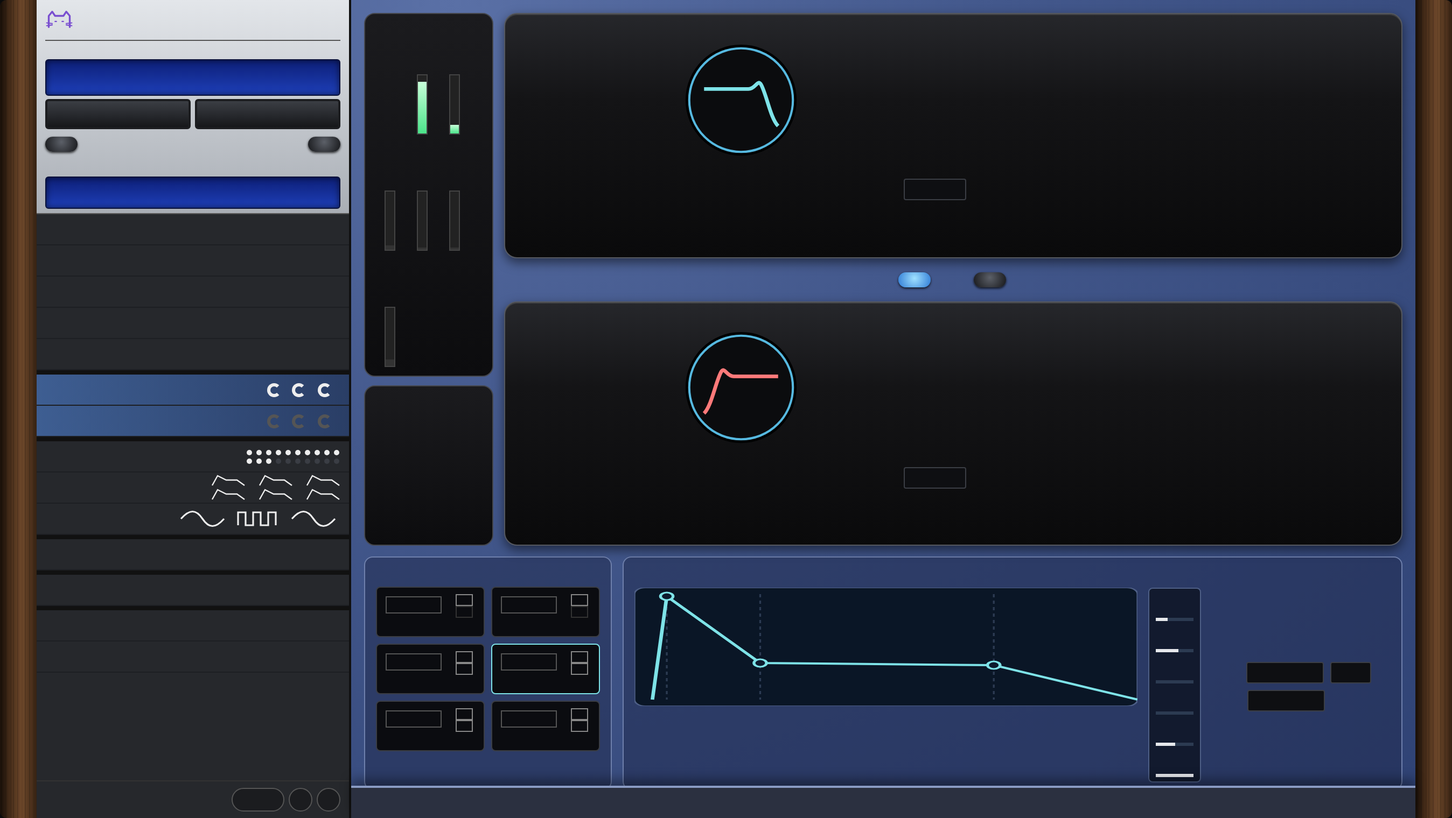
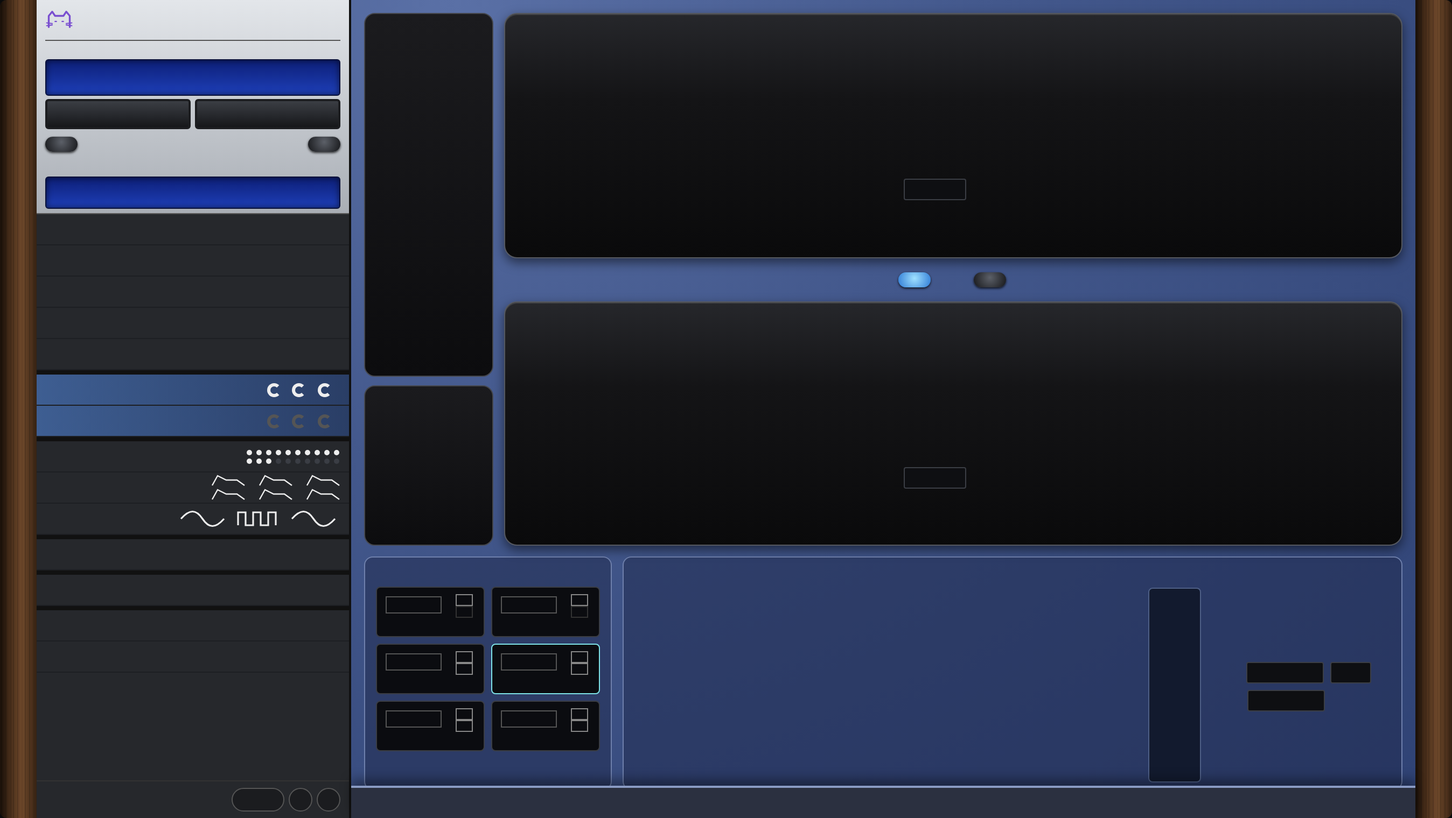
Filter page live: filter response windows, mixer faders, filter envelope graph and bars; filter menu type text follows
Claude-Session: https://claude.ai/code/session_019TnJtziw9TzxJpcD67FRDR

diff --git a/docs/mockups/UNova_Filter.dc.html b/docs/mockups/UNova_Filter.dc.html
@@ -93,6 +93,71 @@ a{color:#E6E8EC}a:hover{color:#FFFFFF}
 <div style="position: absolute; left: 7px; top: 7px; width: 28px; height: 28px; transform: rotate(0deg)"><div style="position: absolute; left: 50%; top: 3.9px; width: 2px; height: 7.3px; margin-left: -1px; border-radius: 1px; background: #1C1E22; box-shadow: 0 0 1px rgba(255,255,255,0.6)"></div></div></div><span style="font-size: 10px; color: #A9AFBA; text-align: center; line-height: 1.1">Level Track</span></div></div><div style="display: flex; gap: 6px; align-items: center; font-size: 10px; color: #A9AFBA"><span>Mono</span><span style="display: inline-flex; align-items: center; justify-content: center; width: 70px; height: 18px; border-radius: 2px; background: #0E0F12; border: 1px solid #3B3E45; color: #DCE3F0; font-size: 10px">Legato</span><span style="display: inline-flex; align-items: center; justify-content: center; width: 36px; height: 18px; border-radius: 2px; background: #0E0F12; border: 1px solid #3B3E45; color: #DCE3F0; font-size: 10px">C 3</span></div><div style="display: flex; gap: 6px; align-items: center; font-size: 10px; color: #A9AFBA"><span>Touch</span><span style="display: inline-flex; align-items: center; justify-content: center; width: 70px; height: 18px; border-radius: 2px; background: #0E0F12; border: 1px solid #3B3E45; color: #DCE3F0; font-size: 10px">Off</span></div></div></div></section></div><span style="font-size: 10px; color: #CBD3E6">14 types: LP6NoRes · LP12 · LP18 · LP24 · BP6/6 · BP12/12 · BP6/12 · BP12/6 · BP6/18 · BP18/6 · HP6NoRes · HP12 · HP18 · HP24</span><div style="position: absolute; bottom: 0; left: 0; right: 0; height: 28px; background: #2B3040; border-top: 2px solid #8A9BC4; box-shadow: 0 -6px 10px rgba(0,0,0,.35); display: flex; align-items: center; justify-content: center; font-size: 15px; font-weight: 600; letter-spacing: .06em; color: #F2F4F8">UltraNova Controller</div></main>
 </div><div aria-hidden="true" class="wood-cheek" style="width: 34px; flex: none; align-self: stretch; background: linear-gradient(90deg,rgb(29,18,10) 0px 1px,rgb(27,17,9) 1px 2px,rgb(36,22,12) 2px 3px,rgb(40,25,14) 3px 4px,rgb(44,28,15) 4px 5px,rgb(43,27,16) 5px 6px,rgb(57,36,20) 6px 7px,rgb(63,39,22) 7px 8px,rgb(68,43,24) 8px 9px,rgb(66,42,24) 9px 10px,rgb(70,44,25) 10px 11px,rgb(81,52,30) 11px 12px,rgb(70,45,26) 12px 13px,rgb(86,56,32) 13px 14px,rgb(90,58,33) 14px 15px,rgb(93,61,34) 15px 16px,rgb(83,53,32) 16px 17px,rgb(102,65,39) 17px 18px,rgb(103,68,40) 18px 19px,rgb(107,70,41) 19px 20px,rgb(99,65,38) 20px 21px,rgb(106,70,41) 21px 22px,rgb(103,68,40) 22px 23px,rgb(82,54,31) 23px 24px,rgb(93,61,35) 24px 25px,rgb(89,58,33) 25px 26px,rgb(86,55,32) 26px 27px,rgb(69,46,26) 27px 28px,rgb(79,51,29) 28px 29px,rgb(75,47,28) 29px 30px,rgb(70,45,25) 30px 31px,rgb(60,38,21) 31px 32px,rgb(61,38,22) 32px 33px,rgb(55,36,20) 33px 34px,rgb(42,27,15) 34px 35px); box-shadow: none; border-radius: 0 6px 6px 0"></div></div>
 </x-dc>
+<script>
+(function(){
+// ---- live mixer faders, envelope bars and the amp envelope graph (same behaviour as the plugin window) ----
+function setupMix(){
+  var fs=[].slice.call(document.querySelectorAll('div[style*="width: 8px"][style*="height: 54px"]'));
+  var bars=[].slice.call(document.querySelectorAll('div[style*="height: 3px"][style*="background: #2C3B52"]'));
+  var navRow=[].slice.call(document.querySelectorAll('nav a')).filter(function(a){var f=a.querySelector('span');return f&&f.textContent.trim()==='Mixer';})[0];
+  var nb=navRow?[].slice.call(navRow.querySelectorAll('span[style*="width: 4px"]')):[];
+  var env=document.querySelector('svg[aria-label="Envelope shape"]');
+  function num(x,def){x=parseFloat(x);return isNaN(x)?def:x;}
+  var fv=fs.map(function(f){var h=num(f.firstElementChild&&f.firstElementChild.style.height,2);return h<=4?0:Math.round(Math.min(1,h/52)*127);});
+  var bv=bars.map(function(b){return Math.round(num(b.firstElementChild.style.width,0)/100*127);});
+  var E={a:10,d:70,s:45,t:95,r:50};
+  function drawF(i){var f=fs[i],inner=f.firstElementChild,v=fv[i];inner.style.height=Math.max(2,v/127*52)+'px';inner.style.background=v>0?'linear-gradient(0deg,#4BE38A,#C8FFD9)':'#333';
+    if(nb[i]){nb[i].style.height=(3+v/127*11)+'px';nb[i].style.background=v>0?'#FFFFFF':'#555';}}
+  fs.forEach(function(f,i){var col=f.parentElement;col.style.cursor='ns-resize';col.style.touchAction='none';col.title=['Osc 1','Osc 2','Osc 3','Ring mod 1*3','Ring mod 2*3','Noise'][i]+' level: drag up or down, wheel, double click sets 0';
+    function at(ev){var r=f.getBoundingClientRect();fv[i]=Math.max(0,Math.min(127,Math.round(127*(r.bottom-ev.clientY)/r.height)));drawF(i);}
+    col.addEventListener('pointerdown',function(e){e.preventDefault();col.setPointerCapture(e.pointerId);at(e);function mv(ev){at(ev);}function up(){col.removeEventListener('pointermove',mv);col.removeEventListener('pointerup',up);}col.addEventListener('pointermove',mv);col.addEventListener('pointerup',up);});
+    col.addEventListener('wheel',function(e){e.preventDefault();fv[i]=Math.max(0,Math.min(127,fv[i]+(e.deltaY<0?2:-2)));drawF(i);},{passive:false});
+    col.addEventListener('dblclick',function(){fv[i]=0;drawF(i);});drawF(i);});
+  var bn=['Attack slope','Decay slope','Attack track','Decay track','Sustain rate','Sustain time'];
+  function drawB(i){bars[i].firstElementChild.style.width=(bv[i]/127*100)+'%';if(i===5)E.t=bv[5];}
+  bars.forEach(function(b,i){var box=b.parentElement;box.style.cursor='ew-resize';box.style.touchAction='none';box.title='Filter envelope '+bn[i].toLowerCase()+': drag left or right, wheel';
+    function at(ev){var r=b.getBoundingClientRect();bv[i]=Math.max(0,Math.min(127,Math.round(127*(ev.clientX-r.left)/r.width)));drawB(i);if(i===5)drawE();}
+    box.addEventListener('pointerdown',function(e){e.preventDefault();box.setPointerCapture(e.pointerId);at(e);function mv(ev){at(ev);}function up(){box.removeEventListener('pointermove',mv);box.removeEventListener('pointerup',up);}box.addEventListener('pointermove',mv);box.addEventListener('pointerup',up);});
+    box.addEventListener('wheel',function(e){e.preventDefault();bv[i]=Math.max(0,Math.min(127,bv[i]+(e.deltaY<0?2:-2)));drawB(i);if(i===5)drawE();},{passive:false});});
+  // envelope graph: viewBox 300 x 120, same maths as the plugin (illustrative time scale)
+  function pts(){var wa=24+E.a/127*70,wd=24+E.d/127*70,ws=24+E.t/127*50,wr=24+E.r/127*70,k=Math.min(1,270/(wa+wd+ws+wr)),L=10,T=10,B=104,yS=B-E.s/127*(B-T);
+    var x1=L+wa*k,x2=x1+wd*k,x3=x2+ws*k,x4=x3+wr*k;return {k:k,p:[[L,B],[x1,T],[x2,yS],[x3,yS],[x4,B]]};}
+  function drawE(){if(!env)return;var q=pts(),p=q.p,path=env.querySelector('path'),cs=env.querySelectorAll('circle'),ls=env.querySelectorAll('line');
+    path.setAttribute('d','M'+p.map(function(a){return a[0].toFixed(1)+','+a[1].toFixed(1);}).join(' L'));
+    for(var i=0;i<cs.length&&i<4;i++){cs[i].setAttribute('cx',p[i+1][0]);cs[i].setAttribute('cy',p[i+1][1]);cs[i].style.cursor='grab';}
+    for(var j=0;j<ls.length&&j<3;j++){ls[j].setAttribute('x1',p[j+1][0]);ls[j].setAttribute('x2',p[j+1][0]);}}
+  if(env){var drag=null;env.style.touchAction='none';
+    env.addEventListener('pointerdown',function(e){var r=env.getBoundingClientRect(),sx=300/r.width,sy=120/r.height,x=(e.clientX-r.left)*sx,y=(e.clientY-r.top)*sy,p=pts().p,h=0;
+      for(var i=4;i>=1;i--){if(Math.hypot(p[i][0]-x,p[i][1]-y)<12){h=i;break;}}if(!h)return;e.preventDefault();env.setPointerCapture(e.pointerId);
+      drag={h:h,x:e.clientX,y:e.clientY,v:{a:E.a,d:E.d,s:E.s,t:E.t,r:E.r},k:pts().k,sx:sx,sy:sy};});
+    env.addEventListener('pointermove',function(e){if(!drag)return;var dx=(e.clientX-drag.x)*drag.sx,dy=(e.clientY-drag.y)*drag.sy,v=drag.v,c=function(n){return Math.max(0,Math.min(127,Math.round(n)));};
+      if(drag.h===1)E.a=c(v.a+dx*127/(70*drag.k));else if(drag.h===2){E.d=c(v.d+dx*127/(70*drag.k));E.s=c(v.s-dy*127/94);}
+      else if(drag.h===3){E.t=c(v.t+dx*127/(50*drag.k));bv[5]=E.t;drawB(5);}else E.r=c(v.r+dx*127/(70*drag.k));drawE();});
+    env.addEventListener('pointerup',function(){drag=null;});env.title='Filter envelope: drag the dots (attack, decay and sustain level, sustain time, release)';drawE();}
+}
+setTimeout(setupMix,900);
+
+// ---- live filter windows: the curve follows type, frequency and resonance (knob angles) ----
+var FT={'LP6NoRes':[0,1,0,1],'LP12':[0,2,0,0],'LP18':[0,3,0,0],'LP24':[0,4,0,0],'BP6/6':[1,1,1,0],'BP12/12':[1,2,2,0],'BP6/12':[1,1,2,0],'BP12/6':[1,2,1,0],'BP6/18':[1,1,3,0],'BP18/6':[1,3,1,0],'HP6NoRes':[2,1,0,1],'HP12':[2,2,0,0],'HP18':[2,3,0,0],'HP24':[2,4,0,0]};
+function fdb(ft,fv,rv,f){var fc=20*Math.pow(1000,fv/127);function lp(x,n){return 1/Math.sqrt(1+Math.pow(x,2*n));}
+  var m=ft[0]===0?lp(f/fc,ft[1]):ft[0]===2?lp(fc/f,ft[1]):lp(f/(fc*1.6),ft[2])*lp((fc/1.6)/f,ft[1]);var db=20*Math.log10(Math.max(m,1e-4));
+  if(!ft[3]){var l=Math.log(f/fc);db+=rv/127*18*Math.exp(-l*l/(2*.14*.14));}return db;}
+function setupFilters(){
+  [].slice.call(document.querySelectorAll('svg[aria-label^="Filter "]')).forEach(function(sv){
+    var name=(sv.getAttribute('aria-label').match(/Filter \d (\S+)/)||[])[1],ft=FT[name];if(!ft)return;
+    var panel=sv.parentElement.parentElement,knobs=[].slice.call(panel.querySelectorAll('[data-knob]'));var fk=knobs[2],rk=knobs[3];if(!fk||!rk)return;
+    function ang(kb){var r=kb.querySelector('div[style*="rotate("]');var m=r&&/rotate\((-?[\d.]+)deg\)/.exec(r.getAttribute('style'));return m?parseFloat(m[1]):0;}
+    var path=sv.querySelector('path[stroke]'),first=true;
+    function draw(){var fv=(ang(fk)+135)/270*127,rv=(ang(rk)+135)/270*127,d='';
+      for(var i=0;i<=64;i++){var t=i/64,db=Math.max(-14,Math.min(14,fdb(ft,fv,rv,20*Math.pow(1000,t))));d+=(i?' L':'M')+(12+t*40).toFixed(1)+','+(32-db*.68).toFixed(1);}
+      path.setAttribute('d',d);path.setAttribute('stroke-linejoin','round');}
+    [fk,rk].forEach(function(kb){var r=kb.querySelector('div[style*="rotate("]');if(r)new MutationObserver(draw).observe(r,{attributes:true,attributeFilter:['style']});});
+    sv.style.clipPath='none';draw();
+  });
+}
+setTimeout(setupFilters,900);
+})();
+</script>
 <script type="text/x-dc" data-dc-script data-props='{"$preview":{"width":1280,"height":760}}'>
 class Component extends DCLogic {
 renderVals() {

diff --git a/src/ui/UnovaUi.h b/src/ui/UnovaUi.h
@@ -75,6 +75,7 @@ inline juce::Font makeFont(int weight, bool vt, float px) { return juce::Font(ju
 inline float textWidth(const juce::Font& f, const juce::String& t) { juce::GlyphArrangement ga; ga.addLineOfText(f, t, 0, 0); return ga.getBoundingBox(0, -1, true).getWidth(); }
 
 struct TextRun { juce::String t; juce::Rectangle<float> r; juce::Font font; juce::Colour col; int rot = 0; };
+struct FilterDialSpec { juce::Rectangle<float> rect; juce::Colour ring, curve; };
 struct IconSpec { int n = 1; juce::Rectangle<float> rect; juce::Colour color; };
 struct DialSpec { juce::Rectangle<float> rect; juce::Colour color; };
 struct KnobSpec { juce::Rectangle<float> rect; float angle = 0; };
@@ -82,7 +83,7 @@ struct NavSpec { juce::String page; juce::Rectangle<float> rect; };
 struct ButtonSpec { juce::String text, label; juce::Rectangle<float> rect; };
 struct PageData
 {
-    juce::Image art; std::vector<KnobSpec> knobs; std::vector<NavSpec> nav; std::vector<ButtonSpec> buttons; std::vector<TextRun> runs; std::vector<DialSpec> dials; std::vector<IconSpec> icons; std::vector<juce::Rectangle<float>> navBars, faders, bars; juce::Rectangle<float> env;
+    juce::Image art; std::vector<KnobSpec> knobs; std::vector<NavSpec> nav; std::vector<ButtonSpec> buttons; std::vector<TextRun> runs; std::vector<DialSpec> dials; std::vector<IconSpec> icons; std::vector<juce::Rectangle<float>> navBars, faders, bars; juce::Rectangle<float> env; std::vector<FilterDialSpec> filterDials;
     static std::unique_ptr<PageData> load(const juce::String& key)
     {
         auto pd = std::make_unique<PageData>(); auto png = resource(key + ".png"); auto js = resource(key + ".json");
@@ -105,6 +106,8 @@ struct PageData
         if (auto* is = v["navIcons"].getArray()) for (auto& d : *is) pd->icons.push_back({ (int) d["n"], rectOf(d), juce::Colour::fromString("ff" + d["color"].toString().fromFirstOccurrenceOf("#", false, false)) });
         auto list = [&](const char* k, std::vector<juce::Rectangle<float>>& out) { if (auto* a = v[k].getArray()) for (auto& r : *a) out.push_back(rectOf(r)); };
         list("navBars", pd->navBars); list("faders", pd->faders); list("bars", pd->bars); if (v["env"].isObject()) pd->env = rectOf(v["env"]);
+        auto col = [](const juce::String& c) { return juce::Colour::fromString("ff" + c.fromFirstOccurrenceOf("#", false, false)); };
+        if (auto* fs = v["filterDials"].getArray()) for (auto& d : *fs) pd->filterDials.push_back({ rectOf(d), col(d["ring"].toString()), col(d["color"].toString()) });
         return pd;
     }
 };
@@ -379,6 +382,54 @@ private:
     juce::RangedAudioParameter *A, *D, *S, *ST, *R; float last = -1, k0 = 1; int grab = 0; juce::Point<float> start; std::array<float, 5> v0{};
 };
 
+// Filter types in the order of the maker's list ("14 types"). Which controller value picks which type is not in the document: assumed value 0..13 in this order.
+struct FType { const char* name; int kind, a, b; bool noRes; };   // kind 0 low pass, 1 band pass (a high pass side, b low pass side), 2 high pass
+inline const FType& filterType(int i)
+{
+    static const FType t[14] = { { "LP6NoRes", 0, 1, 0, true }, { "LP12", 0, 2, 0, false }, { "LP18", 0, 3, 0, false }, { "LP24", 0, 4, 0, false }, { "BP6/6", 1, 1, 1, false }, { "BP12/12", 1, 2, 2, false }, { "BP6/12", 1, 1, 2, false },
+        { "BP12/6", 1, 2, 1, false }, { "BP6/18", 1, 1, 3, false }, { "BP18/6", 1, 3, 1, false }, { "HP6NoRes", 2, 1, 0, true }, { "HP12", 2, 2, 0, false }, { "HP18", 2, 3, 0, false }, { "HP24", 2, 4, 0, false } };
+    return t[juce::jlimit(0, 13, i)];
+}
+// Illustrative response: cutoff 20 Hz to 20 kHz over the controller range (assumed), resonance bump up to 18 dB. Returns dB at frequency f.
+inline float filterDb(const FType& ft, float freqV, float resV, float f)
+{
+    const float fc = 20.0f * std::pow(1000.0f, freqV / 127.0f); auto lp = [](float x, int n) { return 1.0f / std::sqrt(1.0f + std::pow(x, 2.0f * (float) n)); };
+    float m;
+    if (ft.kind == 0) m = lp(f / fc, ft.a); else if (ft.kind == 2) m = lp(fc / f, ft.a); else m = lp(f / (fc * 1.6f), ft.b) * lp((fc / 1.6f) / f, ft.a);
+    float db = 20.0f * std::log10(juce::jmax(m, 1.0e-4f));
+    if (!ft.noRes) { const float l = std::log(f / fc); db += resV / 127.0f * 18.0f * std::exp(-l * l / (2.0f * 0.14f * 0.14f)); }
+    return db;
+}
+// The round filter window: draws the response of the current type, frequency and resonance. Drag sideways for frequency, up or down for resonance.
+class FilterDial : public juce::Component, public juce::SettableTooltipClient
+{
+public:
+    FilterDial(juce::RangedAudioParameter* t, juce::RangedAudioParameter* f, juce::RangedAudioParameter* r, juce::Colour ringC, juce::Colour curveC, juce::Rectangle<float> box, const juce::String& name)
+        : T(t), F(f), R(r), ring(ringC), curve(curveC), title(name) { setBounds(box.toNearestInt()); setMouseCursor(juce::MouseCursor::UpDownLeftRightResizeCursor); tip(); }
+    void refresh() { const float sg = pget(T) + pget(F) * 31 + pget(R) * 1009; if (sg != last) { repaint(); tip(); } }
+    void paint(juce::Graphics& g) override
+    {
+        last = pget(T) + pget(F) * 31 + pget(R) * 1009; const float u = (float) juce::jmin(getWidth(), getHeight()) / 64.0f; const juce::Point<float> c((float) getWidth() / 2, (float) getHeight() / 2);
+        g.setColour(juce::Colours::black); g.fillEllipse(c.x - 30 * u, c.y - 30 * u, 60 * u, 60 * u);
+        g.setColour(juce::Colour(0xff0B0C0E)); g.fillEllipse(c.x - 28 * u, c.y - 28 * u, 56 * u, 56 * u); g.setColour(ring); g.drawEllipse(c.x - 28 * u, c.y - 28 * u, 56 * u, 56 * u, 1.2f * u);
+        const auto& ft = filterType(juce::roundToInt(pget(T))); juce::Path p; const float x0 = c.x - 20 * u, w = 40 * u;
+        for (int i = 0; i <= 64; ++i)
+        {
+            const float t = (float) i / 64.0f, db = filterDb(ft, pget(F), pget(R), 20.0f * std::pow(1000.0f, t)), y = c.y + (14.0f - juce::jlimit(-14.0f, 14.0f, db) / 50.0f * 34.0f - 8.0f) * u - 6 * u;
+            if (i) p.lineTo(x0 + t * w, y); else p.startNewSubPath(x0 + t * w, y);
+        }
+        g.saveState(); g.reduceClipRegion(juce::Rectangle<float>(c.x - 24 * u, c.y - 24 * u, 48 * u, 38 * u).toNearestInt()); g.setColour(curve); g.strokePath(p, juce::PathStrokeType(2.0f * u, juce::PathStrokeType::curved, juce::PathStrokeType::rounded)); g.restoreState();
+        g.setColour(juce::Colours::white); g.setFont(makeFont(400, false, 7.0f * u)); g.drawText(ft.name, juce::Rectangle<float>(c.x - 26 * u, c.y + 12 * u, 52 * u, 10 * u), juce::Justification::centred, false);
+    }
+    void mouseDown(const juce::MouseEvent&) override { f0 = pget(F); r0 = pget(R); for (auto* q : { F, R }) if (q) q->beginChangeGesture(); }
+    void mouseDrag(const juce::MouseEvent& e) override { pset(F, f0 + (float) e.getOffsetFromDragStart().x * 0.9f); pset(R, r0 - (float) e.getOffsetFromDragStart().y * 0.9f); }
+    void mouseUp(const juce::MouseEvent&) override { for (auto* q : { F, R }) if (q) q->endChangeGesture(); }
+    void mouseWheelMove(const juce::MouseEvent&, const juce::MouseWheelDetails& w) override { if (F) { F->beginChangeGesture(); pset(F, pget(F) + (w.deltaY > 0 ? 2.0f : -2.0f)); F->endChangeGesture(); } }
+private:
+    void tip() { setTooltip(title + ": " + filterType(juce::roundToInt(pget(T))).name + ", frequency " + juce::String(juce::roundToInt(pget(F))) + ", resonance " + juce::String(juce::roundToInt(pget(R))) + " (drag sideways = frequency, up or down = resonance; type order and Hz scale assumed)"); }
+    juce::RangedAudioParameter *T, *F, *R; juce::Colour ring, curve; juce::String title; float last = -1, f0 = 0, r0 = 0;
+};
+
 // A knob wired to one parameter (or disabled at the mockup's resting angle when there is none).
 class Knob : public juce::Slider
 {
@@ -408,11 +459,11 @@ class Content : public juce::Component, private juce::Timer
 public:
     std::function<void()> onZoom, onInfo, onAll, onReset100;
     Content(juce::AudioProcessor& p) : proc(p) { setSize(kW, kH); setOpaque(true); startTimerHz(20); }
-    ~Content() override { stopTimer(); knobs.clear(); fields.clear(); faders.clear(); bars.clear(); envGraph.reset(); }
+    ~Content() override { stopTimer(); knobs.clear(); fields.clear(); faders.clear(); bars.clear(); envGraph.reset(); filterDials.clear(); }
 
     void showPage(const juce::String& key)
     {
-        knobs.clear(); dials.clear(); fields.clear(); faders.clear(); bars.clear(); envGraph.reset(); live.clear(); skip.clear(); shown.clear(); picker.reset(); page = key; data = PageData::load(key); const auto& ids = knobMap().at(key);
+        knobs.clear(); dials.clear(); fields.clear(); faders.clear(); bars.clear(); envGraph.reset(); filterDials.clear(); live.clear(); skip.clear(); shown.clear(); picker.reset(); page = key; data = PageData::load(key); const auto& ids = knobMap().at(key);
         for (size_t i = 0; i < data->knobs.size(); ++i)
         {
             juce::RangedAudioParameter* prm = nullptr;
@@ -435,24 +486,41 @@ public:
     {
         if (!data) return;
         // the menu rows "Oscillator 1..3" show semitone and cents of that oscillator, on every page
-        static const char* semi[3] = { "cc_26", "cc_37", "cc_48" }; static const char* cents[3] = { "cc_27", "cc_39", "cc_49" }; int ns = 0, nc = 0;
+        static const char* semi[3] = { "cc_26", "cc_37", "cc_48" }; static const char* cents[3] = { "cc_27", "cc_39", "cc_49" }; int ns = 0, nc = 0, nf = 0;
         for (size_t i = 0; i < data->runs.size(); ++i)
         {
             const auto& r = data->runs[i]; if (r.r.getX() > 330) continue;
             if (r.t.endsWith(" Semi") && ns < 3) { if (auto* p = find(semi[ns++])) live[(int) i] = [p] { return Field::text(p, true) + " Semi"; }; }
+            else if (r.t.length() >= 4 && (r.t.startsWith("LP") || r.t.startsWith("BP") || r.t.startsWith("HP")) && r.t.containsAnyOf("0123456789") && nf < 2) { if (auto* p = find(nf++ == 0 ? "cc_68" : "cc_82")) live[(int) i] = [p] { return juce::String(filterType(juce::roundToInt(pget(p))).name); }; }
             else if (r.t.endsWith(" Detune") && nc < 3) { if (auto* p = find(cents[nc++])) live[(int) i] = [p] { return Field::text(p, true) + " Detune"; }; }
         }
+        if (key == "filter") { bindMixerAndEnvelope(false); return; }
         if (key != "osc") return;
         auto box = [this](int run, const char* id, bool centred) {
             auto* p = find(id); if (!p) return; const auto& r = data->runs[(size_t) run]; skip.insert(run);
             auto f = std::make_unique<Field>(p, centred, r, juce::Rectangle<float>(40, 20).withCentre(r.r.getCentre())); addAndMakeVisible(*f); fields.push_back(std::move(f)); };
         box(78, "cc_26", true); box(79, "cc_28", true); box(104, "cc_37", true); box(105, "cc_40", true); box(130, "cc_48", true); box(131, "cc_50", true);
         box(171, "cc_14", false);
+        bindMixerAndEnvelope(true);
+    }
+    // Mixer faders, the six envelope bars and the envelope graph (same layout on the Oscillators page for the amp envelope and on the Filter page for the filter envelope).
+    void bindMixerAndEnvelope(bool amp)
+    {
         static const char* mix[6] = { "cc_51", "cc_52", "cc_53", "cc_54", "cc_55", "cc_56" }; static const char* mixName[6] = { "Osc 1 level", "Osc 2 level", "Osc 3 level", "Ring mod 1*3 level", "Ring mod 2*3 level", "Noise level" };
         for (size_t i = 0; i < data->faders.size() && i < 6; ++i) { auto f = std::make_unique<Fader>(find(mix[i]), mixName[i], data->faders[i]); addAndMakeVisible(*f); faders.push_back(std::move(f)); }
-        static const char* bid[6] = { "cc_115", "cc_116", "cc_112", "cc_113", "cc_109", "cc_110" }; static const char* bname[6] = { "Amp env attack slope", "Amp env decay slope", "Amp env attack track", "Amp env decay track", "Amp env sustain rate", "Amp env sustain time" };
-        for (size_t i = 0; i < data->bars.size() && i < 6; ++i) { auto b = std::make_unique<Bar>(find(bid[i]), bname[i], data->bars[i]); addAndMakeVisible(*b); bars.push_back(std::move(b)); }
-        if (!data->env.isEmpty()) { envGraph = std::make_unique<EnvGraph>(find("cc_73"), find("cc_75"), find("cc_70"), find("cc_110"), find("cc_72"), data->env); addAndMakeVisible(*envGraph); }
+        static const char* ampBar[6] = { "cc_115", "cc_116", "cc_112", "cc_113", "cc_109", "cc_110" }; static const char* filBar[6] = { "nrpn_0_11", "nrpn_0_12", "nrpn_0_8", "nrpn_0_9", "nrpn_0_5", "nrpn_0_6" };
+        static const char* bname[6] = { "attack slope", "decay slope", "attack track", "decay track", "sustain rate", "sustain time" };
+        for (size_t i = 0; i < data->bars.size() && i < 6; ++i) { auto b = std::make_unique<Bar>(find(amp ? ampBar[i] : filBar[i]), juce::String(amp ? "Amp env " : "Filter env ") + bname[i], data->bars[i]); addAndMakeVisible(*b); bars.push_back(std::move(b)); }
+        if (!data->env.isEmpty())
+        {
+            envGraph = amp ? std::make_unique<EnvGraph>(find("cc_73"), find("cc_75"), find("cc_70"), find("cc_110"), find("cc_72"), data->env) : std::make_unique<EnvGraph>(find("nrpn_0_1"), find("nrpn_0_2"), find("nrpn_0_3"), find("nrpn_0_6"), find("nrpn_0_4"), data->env);
+            addAndMakeVisible(*envGraph);
+        }
+        if (!amp)
+        {
+            static const char* t[2] = { "cc_68", "cc_82" }; static const char* f[2] = { "cc_74", "cc_83" }; static const char* r[2] = { "cc_71", "cc_85" };
+            for (size_t i = 0; i < data->filterDials.size() && i < 2; ++i) { auto d = std::make_unique<FilterDial>(find(t[i]), find(f[i]), find(r[i]), data->filterDials[i].ring, data->filterDials[i].curve, data->filterDials[i].rect, "Filter " + juce::String((int) i + 1)); addAndMakeVisible(*d); filterDials.push_back(std::move(d)); }
+        }
     }
     // the little waveform in the menu rows follows the waveform and pulse width of its oscillator
     juce::String iconSignature() const
@@ -479,7 +547,7 @@ public:
     }
     void timerCallback() override
     {
-        for (auto& f : fields) f->refresh(); for (auto& f : faders) f->refresh(); for (auto& b : bars) b->refresh(); if (envGraph) envGraph->refresh();
+        for (auto& f : fields) f->refresh(); for (auto& f : faders) f->refresh(); for (auto& b : bars) b->refresh(); if (envGraph) envGraph->refresh(); for (auto& f : filterDials) f->refresh();
         if (data) { auto sg = iconSignature(); if (sg != iconSig) { iconSig = sg; repaint(0, 0, 340, kH); } }
         for (auto& [i, fn] : live) { auto t = fn(); if (shown[i] != t) { shown[i] = t; repaint(data->runs[(size_t) i].r.expanded(8, 4).toNearestInt()); } }
     }
@@ -498,8 +566,9 @@ public:
         if (data && data->art.isValid()) { g.setImageResamplingQuality(juce::Graphics::highResamplingQuality); g.drawImage(data->art, 0, 0, kW, kH, 0, 0, data->art.getWidth(), data->art.getHeight()); }
         if (data) for (size_t ri = 0; ri < data->runs.size(); ++ri)
         {
-            auto& r = data->runs[ri]; if (skip.count((int) ri)) continue; auto lv = live.find((int) ri); const juce::String txt = lv != live.end() ? lv->second() : r.t;
+            auto& r = data->runs[ri]; if (skip.count((int) ri) || r.t.startsWith("14 types:")) continue; auto lv = live.find((int) ri); const juce::String txt = lv != live.end() ? lv->second() : r.t;
             g.setColour(r.col); g.setFont(r.font);
+            if (lv != live.end()) { const float w = textWidth(r.font, txt), mw = r.r.getWidth() + 6.0f; if (w > mw) g.setFont(r.font.withHeight(r.font.getHeight() * mw / w)); }
             if (r.rot % 180 != 0) { const auto c = r.r.getCentre(); g.saveState(); g.addTransform(juce::AffineTransform::rotation(juce::degreesToRadians((float) r.rot), c.x, c.y));
                 g.drawText(txt, juce::Rectangle<float>(r.r.getHeight(), r.r.getWidth()).withCentre(c), juce::Justification::centred, false); g.restoreState(); }
             else g.drawText(txt, r.r.expanded(10, 0), juce::Justification::centred, false);
@@ -539,7 +608,7 @@ public:
     }
 private:
     juce::AudioProcessor& proc; KnobLook look; juce::String page; std::unique_ptr<PageData> data; std::vector<std::unique_ptr<Knob>> knobs; std::vector<std::unique_ptr<WaveDial>> dials; std::unique_ptr<WavePicker> picker;
-    std::vector<std::unique_ptr<Field>> fields; std::vector<std::unique_ptr<Fader>> faders; std::vector<std::unique_ptr<Bar>> bars; std::unique_ptr<EnvGraph> envGraph; std::map<int, std::function<juce::String()>> live; std::set<int> skip; std::map<int, juce::String> shown; juce::String iconSig;
+    std::vector<std::unique_ptr<Field>> fields; std::vector<std::unique_ptr<Fader>> faders; std::vector<std::unique_ptr<Bar>> bars; std::unique_ptr<EnvGraph> envGraph; std::vector<std::unique_ptr<FilterDial>> filterDials; std::map<int, std::function<juce::String()>> live; std::set<int> skip; std::map<int, juce::String> shown; juce::String iconSig;
 };
 
 class Editor : public juce::AudioProcessorEditor

diff --git a/tools/export_mockup.py b/tools/export_mockup.py
@@ -76,13 +76,16 @@ TEXTJS = r"""(key) => {
     a.querySelectorAll('span[style*="width: 4px"]').forEach(b => { const r = b.getBoundingClientRect(); navBars.push({ x: +(r.left - rb.left).toFixed(1), y: +(r.top - rb.top).toFixed(1), w: +r.width.toFixed(1), h: +r.height.toFixed(1) }); b.style.visibility = 'hidden'; }); });
   // Oscillators page only: the mixer faders, the six envelope bars and the envelope graph become live controls
   const faders = [], bars = []; let env = null;
-  if (key === 'osc') {
+  if (key === 'osc' || key === 'filter') {
     const R = e => { const r = e.getBoundingClientRect(); return { x: +(r.left - rb.left).toFixed(1), y: +(r.top - rb.top).toFixed(1), w: +r.width.toFixed(1), h: +r.height.toFixed(1) }; };
     root.querySelectorAll('div[style*="width: 8px"][style*="height: 54px"]').forEach(f => { faders.push(R(f)); f.style.visibility = 'hidden'; });
     root.querySelectorAll('div[style*="height: 3px"][style*="background: #2C3B52"]').forEach(f => { bars.push(R(f)); f.style.visibility = 'hidden'; });
     const sv = root.querySelector('svg[aria-label="Envelope shape"]'); if (sv) { env = R(sv); sv.style.visibility = 'hidden'; }
   }
-  return { runs, dials, navIcons, navBars, faders, bars, env };
+  // Filter page: the two round filter response windows are drawn by the plugin from type, frequency and resonance
+  const filterDials = []; if (key === 'filter') root.querySelectorAll('svg[aria-label^="Filter "]').forEach(sv => { const r = sv.getBoundingClientRect(); const ring = sv.querySelector('circle[stroke]'); const pa = sv.querySelector('path[stroke]');
+    filterDials.push({ x: +(r.left - rb.left).toFixed(1), y: +(r.top - rb.top).toFixed(1), w: +r.width.toFixed(1), h: +r.height.toFixed(1), ring: ring ? ring.getAttribute('stroke') : '#56B9E0', color: pa ? pa.getAttribute('stroke') : '#7EE3E8' }); sv.style.visibility = 'hidden'; });
+  return { runs, dials, navIcons, navBars, faders, bars, env, filterDials };
 }"""
 HIDE_TEXT = "*{color:transparent !important;text-shadow:none !important;-webkit-text-fill-color:transparent !important} svg text{display:none !important}"
 
@@ -92,7 +95,7 @@ with sync_playwright() as p:
         pg.goto("file://%s/docs/mockups/%s.dc.html" % (root, name)); pg.add_style_tag(content=FONTS)
         pg.wait_for_timeout(1500); pg.evaluate("document.fonts.ready"); pg.wait_for_timeout(500)
         info = pg.evaluate(JS, [760, 1348])
-        tx = pg.evaluate(TEXTJS, key); info["runs"] = tx["runs"]; info["dials"] = tx["dials"]; info["navIcons"] = tx["navIcons"]; info["navBars"] = tx["navBars"]; info["faders"] = tx["faders"]; info["bars"] = tx["bars"]; info["env"] = tx["env"]
+        tx = pg.evaluate(TEXTJS, key); info["runs"] = tx["runs"]; info["dials"] = tx["dials"]; info["navIcons"] = tx["navIcons"]; info["navBars"] = tx["navBars"]; info["faders"] = tx["faders"]; info["bars"] = tx["bars"]; info["env"] = tx["env"]; info["filterDials"] = tx["filterDials"]
         pg.add_style_tag(content=HIDE_TEXT); pg.wait_for_timeout(200)
         el = pg.query_selector("x-dc > :last-child")
         el.screenshot(path=os.path.join(root, "assets/ui/%s.png" % key))

diff --git a/tools/gen_map.py b/tools/gen_map.py
@@ -62,6 +62,7 @@ GL = [(0, "Protect"), (2, "Power-up Bank"), (3, "Power-up Patch"), (4, "Global M
       (44, "Phones Balance (levbal mode)")]
 for lsb, n in GL: add(64, lsb, "Global", n)
 
+DEFAULTS = {(0, 3): 127}   # start values that are not 0: Filter envelope sustain level full
 lines = open(path).read().splitlines()
 keep = [l for l in lines if l.startswith("id,") or l.startswith("cc_") or l.startswith("cc14_")]
 out = list(keep)
@@ -71,6 +72,6 @@ for msb, lsb, g, n, kind, lo, hi, src in rows:
     if key in seen: sys.exit("duplicate address %s" % (key,))
     seen.add(key)
     q = '"%s"' % n if "," in n else n
-    out.append("nrpn_%d_%d,%s,%s,%s,%d,%d,%d,%d,0,%s,0" % (msb, lsb, g, q, kind, msb, lsb, lo, hi, src))
+    out.append("nrpn_%d_%d,%s,%s,%s,%d,%d,%d,%d,%d,%s,0" % (msb, lsb, g, q, kind, msb, lsb, lo, hi, DEFAULTS.get(key, 0), src))
 open(path, "w").write("\n".join(out) + "\n")
 print("wrote %d CC lines + %d NRPN lines" % (len(keep) - 1, len(rows)))
